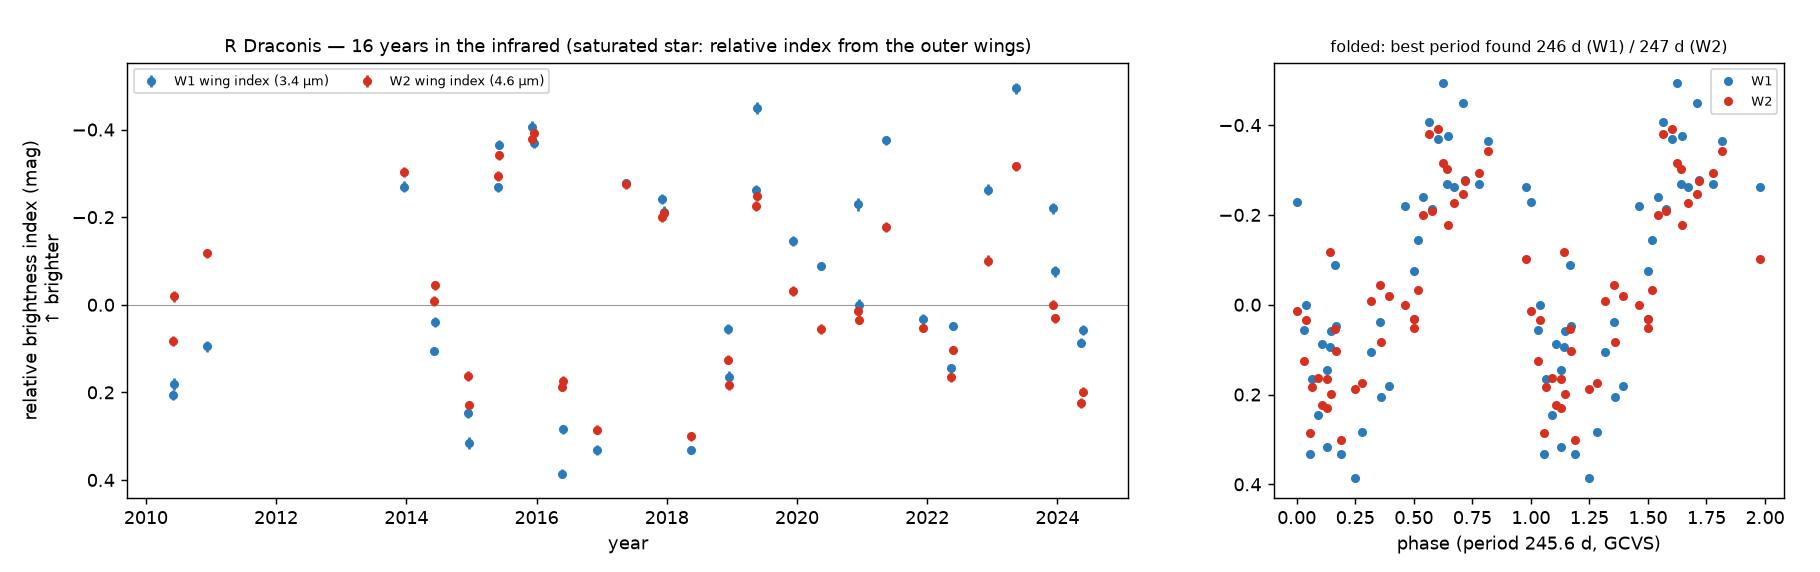
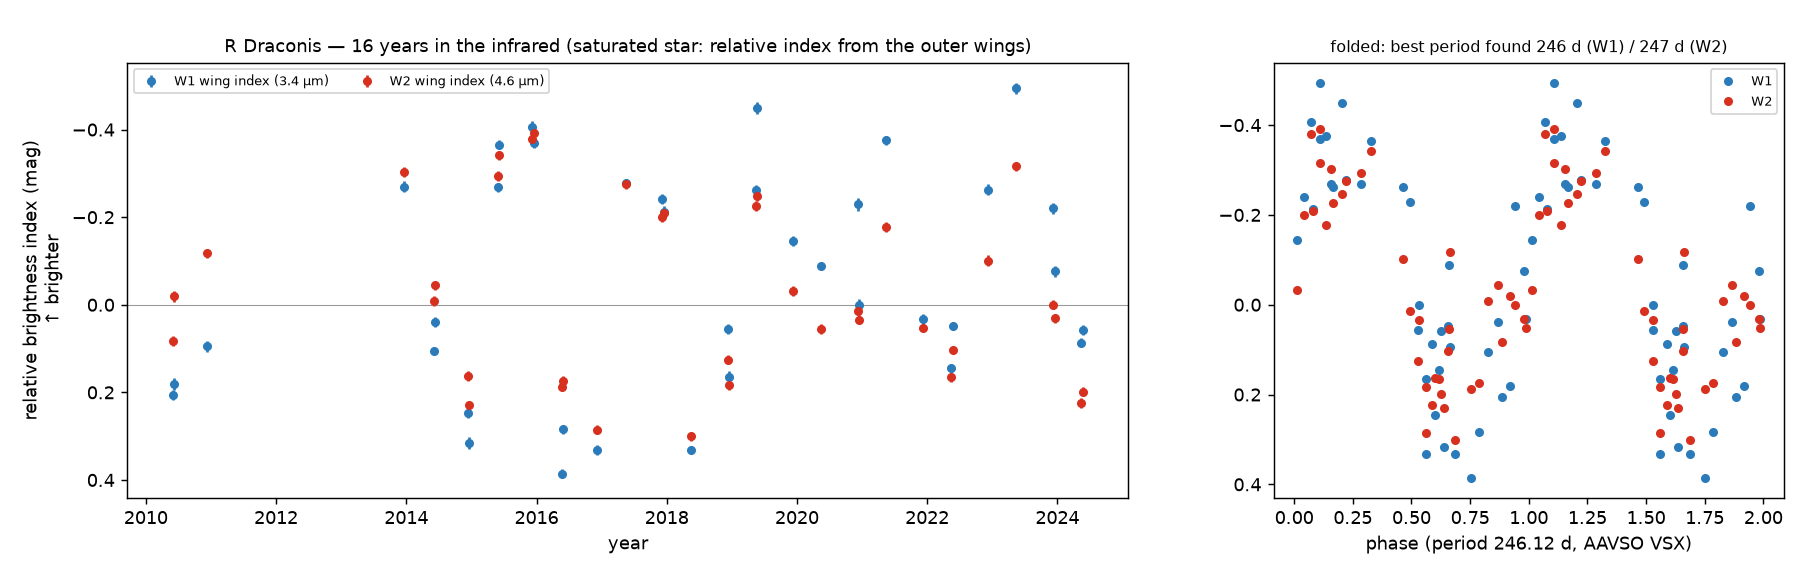
[S8] docs/METHODOLOGY.md (A/B/C -> gap -> SkyLapse + validation, verified refs); fix R Dra reference period (#90)
METHODOLOGY.md: approaches A (Backyard Worlds/WiseView), B (CatWISE2020/unTimely, incl. our
eps Indi B example), C (SPHEREx/IRSA), gap X, SkyLapse D (5 steps + live URL), validation
table with source files, 14 references each opened online (arXiv/DOI/ASCL/VSX).
Correction: the R Dra reference period 245.6 d (labelled GCVS) was not verifiable; AAVSO VSX
gives 246.12 d. Updated photometry.py, light-curve block, LIGHTCURVES.md, QA_FACTS.md and the
R Dra copilot texts (guard re-run). Measured 246 / 247 d unchanged.

diff --git a/science/skylapse_science/photometry.py b/science/skylapse_science/photometry.py
@@ -37,7 +37,7 @@ warnings.simplefilter("ignore", RuntimeWarning)
 VAR_TARGETS = ["r_dra", "rw_aur"]
 RING_WIDTH = 6
 BKG = (25, 35)
-LIT_PERIOD = {"r_dra": (245.6, "GCVS")}     # used only to fold the measured index, never as a result
+LIT_PERIOD = {"r_dra": (246.12, "AAVSO VSX")}     # vsx.aavso.org, checked 15 Nov 2026; only to fold the index, never a result
 
 
 def _epochs(field):

diff --git a/docs/METHODOLOGY.md b/docs/METHODOLOGY.md
@@ -1,0 +1,88 @@
+# SkyLapse — methodology and validation
+
+**Short answer for the jury:** we reviewed how moving infrared objects are found today — **A** human blinking of WISE images
+(Backyard Worlds / WiseView), **B** automated WISE motion catalogs (CatWISE2020, unTimely), **C** NASA SPHEREx and its IRSA archive
+tools. Their common **gap X**: no public tool joins WISE's 14-year time baseline with SPHEREx's 102-band spectra. **D = SkyLapse**
+does that, measures what moves, and shows it as a movie. Working prototype: **https://skylapse.vercel.app**.
+
+## A — Human blinking: Backyard Worlds: Planet 9 and WiseView
+- Volunteers blink unWISE time-resolved images of the same patch of sky and spot faint dots that move [1, 2, 3].
+- **Strength:** the human eye finds faint, unusual movers that catalogs miss; the project's first brown dwarf came this way [1].
+- **Limits:** WISE only (3.4 and 4.6 µm, two colours), no spectra, motion is judged by eye (not measured).
+
+## B — Automated WISE motion catalogs: CatWISE2020 and unTimely
+- CatWISE2020 measures positions and proper motions of faint sources over the whole sky from WISE/NEOWISE data [4]; unTimely is a
+  time-domain catalog built from the time-resolved unWISE coadds [5].
+- **Strength:** whole sky, automatic, faint sources.
+- **Limits:** no spectra, and catalog motions can fail for blended or unusual objects. **Our own example:** for ε Indi B
+  (a brown-dwarf pair next to a very bright star) CatWISE2020 lists (0.90, −0.68) ″/yr, about **1.1 ″/yr**, while Gaia DR3 gives
+  **4.7 ″/yr** (`docs/SCIENCE_NOTES.md` §7). In the five fields we built, CatWISE lists 881 sources faster than 0.3 ″/yr and
+  none of them is confirmed by a Gaia source moving the same way (`science/DISCOVERY.md`).
+
+## C — NASA SPHEREx and the IRSA archive tools
+- SPHEREx maps the whole sky in 102 spectral bands from 0.75 to 5.0 µm [6]; IRSA serves its images and offers cutout,
+  spectrophotometry and source-discovery tools. A spectral library for ultracool dwarfs from SPHEREx already exists [7].
+- **Strength:** a spectrum for every pixel of the sky — e.g. methane in cold brown dwarfs.
+- **Limits:** its own record is only about one year, so even the fastest nearby objects move only ~1–2 of its 6.15″ pixels;
+  saturated bright stars; no time-lapse viewer that joins it with older surveys.
+
+## X — The gap
+**No public tool joins the 14-year WISE/NEOWISE baseline (2010–2024) with SPHEREx's spectra (2025–2026).** Motion needs time,
+spectra need SPHEREx: today a user must combine A, B and C by hand.
+
+## D — SkyLapse (what we built)
+1. **Collect** every unWISE time-resolved WISE/NEOWISE epoch (2010–2024) [3] and every SPHEREx image (DR1 + QR3) of the field.
+2. **Clean:** SPHEREx zodiacal light subtracted, bad pixels masked using each image's own flag names, saturation flagged — never
+   shown as real brightness.
+3. **Combine** everything on one sky grid and play it as a **16-year movie**, with Gaia DR3 [8] / CatWISE overlays.
+4. **Measure:** proper motions (position in every WISE epoch, straight-line fit), a blind search for movers with epoch-by-epoch
+   verification, SPHEREx spectra by forced PSF photometry at the moving position, and saturation-aware light curves.
+5. **Explain:** short English and Azerbaijani texts written only from the measured facts, with an automatic check that every
+   number in a text is one we measured; nothing is called a "discovery", only a "candidate".
+
+Live prototype: **https://skylapse.vercel.app** — all five NASA test targets play from a static bundle (the demo does not depend
+on archive servers being online). Code: this repository (`pipeline/`, `science/`, `web/`).
+
+## Validation (our measured numbers)
+| test | result | reference value | source file |
+|---|---|---|---|
+| Barnard's Star proper motion | 10395 ± 17 mas/yr, **99.8 %** agreement | Gaia DR3 [8]: 10393 mas/yr | `science/VALIDATION.md` |
+| ε Indi B proper motion | 4717 ± 10 mas/yr, **99.0 %**; moves with its star ε Indi A to **99.3 %** | Gaia DR3: 4684 mas/yr | `science/VALIDATION.md` |
+| WISE 0855−0714 proper motion | 8157 ± 15 mas/yr, **99.9 %** | Kirkpatrick et al. 2021 [9]: 8152 mas/yr | `science/VALIDATION.md` |
+| Blind search for movers (5 fields) | known movers **3**, recovered **3**, false candidates **0** | Gaia DR3 + literature | `science/DISCOVERY.md` |
+| WISE 0855 SPHEREx spectrum | not detected below 2.4 µm (−0.009 ± 0.009 mJy); detected at 4.4–4.9 µm (0.62 ± 0.08 mJy, S/N 7) | expected for a ~250 K Y dwarf [10] | `science/SPECTRA.md` |
+| SPHEREx flux scale | SPHEREx / WISE = 1.01 ± 0.03 (3.4 µm), 1.03 ± 0.03 (4.6 µm), 9 stars | WISE photometry (CatWISE2020 [4]) | `science/out/validation/spectra_calibration.json` |
+| R Draconis pulsation | best period **246 d** (W1) / **247 d** (W2) | AAVSO VSX: 246.12 d [11] | `science/LIGHTCURVES.md` |
+| RW Aurigae variability | 0.24 / 0.40 mag rms vs a constant comparison star 0.03 / 0.05; index vs NEOWISE photometry r = 0.93 / 0.98 | NEOWISE single exposures [12] | `science/LIGHTCURVES.md` |
+
+Agreement = 100 × (1 − |μ_measured − μ_reference| / |μ_reference|), full 2-D vector difference. Per-claim method and caveat:
+`science/QA_FACTS.md`. **Caveats:** Barnard's Star, R Dra and RW Aur are saturated (positions from the image wings; light curves
+are a relative index, not magnitudes); the R Dra period has a ~713 d alias because WISE visits every ~6 months; WISE parallaxes
+are not a result. Every number is reproduced by one command (`python -m skylapse_science validate | spectra | lightcurves | discover`).
+
+## References (each link checked on 15 Nov 2026)
+1. Kuchner, M. J., Faherty, J. K., Schneider, A. C., et al. 2017, *The First Brown Dwarf Discovered by the Backyard Worlds: Planet 9
+   Citizen Science Project*, ApJ Letters. arXiv:[1705.02919](https://arxiv.org/abs/1705.02919), doi:[10.3847/2041-8213/aa7200](https://doi.org/10.3847/2041-8213/aa7200)
+2. Caselden, D., Westin, P., III, Meisner, A., Kuchner, M., Colin, G. 2018, *WiseView: Visualizing motion and variability of faint
+   WISE sources*, Astrophysics Source Code Library, [ascl:1806.004](https://ascl.net/1806.004)
+3. Meisner, A. M., Lang, D., Schlegel, D. J. 2018, *Time-resolved WISE/NEOWISE Coadds*, AJ 156, 69.
+   arXiv:[1710.02526](https://arxiv.org/abs/1710.02526), doi:[10.3847/1538-3881/aacbcd](https://doi.org/10.3847/1538-3881/aacbcd)
+4. Marocco, F., et al. 2021, *The CatWISE2020 Catalog*, ApJS.
+   arXiv:[2012.13084](https://arxiv.org/abs/2012.13084), doi:[10.3847/1538-4365/abd805](https://doi.org/10.3847/1538-4365/abd805)
+5. Meisner, A. M., et al. 2023, *unTimely: a Full-sky, Time-Domain unWISE Catalog*, AJ.
+   arXiv:[2209.14327](https://arxiv.org/abs/2209.14327), doi:[10.3847/1538-3881/aca2ab](https://doi.org/10.3847/1538-3881/aca2ab)
+6. Doré, O., et al. 2014, *Cosmology with the SPHEREX All-Sky Spectral Survey*, arXiv:[1412.4872](https://arxiv.org/abs/1412.4872)
+7. Gagné, J., et al. 2026, *A SPHEREx Pipeline and Spectral Library for Ultracool Dwarfs*, arXiv:[2604.22012](https://arxiv.org/abs/2604.22012)
+8. Gaia Collaboration, Vallenari, A., et al. 2023, *Gaia Data Release 3: Summary of the content and survey properties*, A&A.
+   arXiv:[2208.00211](https://arxiv.org/abs/2208.00211), doi:[10.1051/0004-6361/202243940](https://doi.org/10.1051/0004-6361/202243940)
+9. Kirkpatrick, J. D., et al. 2021, *The Field Substellar Mass Function Based on the Full-sky 20-pc Census of 525 L, T, and Y Dwarfs*,
+   ApJS 253, 7. arXiv:[2011.11616](https://arxiv.org/abs/2011.11616), doi:[10.3847/1538-4365/abd107](https://doi.org/10.3847/1538-4365/abd107)
+10. Luhman, K. L. 2014, *Discovery of a ~250 K Brown Dwarf at 2 pc from the Sun*, ApJ 786, L18.
+    arXiv:[1404.6501](https://arxiv.org/abs/1404.6501), doi:[10.1088/2041-8205/786/2/L18](https://doi.org/10.1088/2041-8205/786/2/L18)
+11. AAVSO International Variable Star Index (VSX), entry for R Dra (period 246.12 d): [vsx.aavso.org](https://vsx.aavso.org/index.php?view=results.get&ident=R+Dra)
+12. Mainzer, A., et al. 2014, *Initial Performance of the NEOWISE Reactivation Mission*, ApJ 792, 30.
+    arXiv:[1406.6025](https://arxiv.org/abs/1406.6025), doi:[10.1088/0004-637X/792/1/30](https://doi.org/10.1088/0004-637X/792/1/30)
+13. Wright, E. L., et al. 2010, *The Wide-field Infrared Survey Explorer (WISE): Mission Description and Initial On-orbit
+    Performance*, AJ 140, 1868. arXiv:[1008.0031](https://arxiv.org/abs/1008.0031), doi:[10.1088/0004-6256/140/6/1868](https://doi.org/10.1088/0004-6256/140/6/1868)
+14. Astropy Collaboration 2022, *The Astropy Project: … Latest Major Release (v5.0) of the Core Package*, ApJ.
+    arXiv:[2206.14220](https://arxiv.org/abs/2206.14220), doi:[10.3847/1538-4357/ac7c74](https://doi.org/10.3847/1538-4357/ac7c74)

diff --git a/science/QA_FACTS.md b/science/QA_FACTS.md
@@ -17,7 +17,7 @@ Checked against the live site https://skylapse.vercel.app (bundle files identica
 | 9 | WISE 0855 spectrum | not detected < 2.4 µm (−0.009 ± 0.009 mJy) and in the CH₄ band; detected 4.4–4.9 µm (0.62 ± 0.08 mJy, S/N 7) | `science/SPECTRA.md`, `out/wise0855/objects/target.json` | Forced PSF fit of target + catalogue neighbours on SPHEREx IMAGE − ZODI, position propagated to each image date. | Only the 30 May-2025 images are clean; later it passes < 9″ from a background star (blend, left out) — a simple aperture would fake a short-wave "detection". |
 | 10 | ε Indi B spectrum is a T dwarf | methane band at **19 %** of the 3.9–4.2 µm peak; dip again at 4.4–4.9 µm (CO) | `science/SPECTRA.md` | Same, 324 clean images. | Peak of a T dwarf is ~4 µm, not 4.6 µm: don't say "brightest at 4.6 µm" for ε Indi B. |
 | 11 | Our SPHEREx flux scale is right | SPHEREx / WISE = **1.01 ± 0.03** (3.4 µm) and **1.03 ± 0.03** (4.6 µm), 9 stars | `out/validation/spectra_calibration.json` | Isolated CatWISE stars measured the same way. | Quick-look wavelengths from the spectral WCS (IRSA method), fine for display. |
-| 12 | R Dra pulsation recovered | best period **246 d** (W1) / **247 d** (W2) vs **245.6 d** (GCVS); folded sine explains 75 % | `science/LIGHTCURVES.md`, `out/r_dra/lightcurve_analysis.json` | Relative brightness index from the unsaturated outer rings of the star in 37 unWISE epochs, period search 100–1000 d. | WISE visits every ~6 months, so a ~713 d alias fits almost as well: consistent with the known period, could not single it out alone. |
+| 12 | R Dra pulsation recovered | best period **246 d** (W1) / **247 d** (W2) vs **246.12 d** (AAVSO VSX); folded sine explains 76 % | `science/LIGHTCURVES.md`, `out/r_dra/lightcurve_analysis.json` | Relative brightness index from the unsaturated outer rings of the star in 37 unWISE epochs, period search 100–1000 d. | WISE visits every ~6 months, so a ~713 d alias fits almost as well: consistent with the known period, could not single it out alone. |
 | 13 | RW Aur variability is real | RW Aur 0.24 / 0.40 mag rms vs comparison star 0.03 / 0.05; index vs NEOWISE correlation **0.93 / 0.98** (23 visits) | `science/LIGHTCURVES.md` | Same wing index; checked against NEOWISE profile-fit photometry. | It is a relative index, not a magnitude (core saturated). |
 | 14 | Saturation is flagged honestly | Barnard saturated in 356/357 SPHEREx images, R Dra 2471/2471, RW Aur 304/333 → no spectrum shown | `out/<field>/objects/target.json` (`spectrum.usable: false`) | OVERFLOW flag or empty core at the target. | — |
 | 15 | AI explanations use only our facts | 10 texts (5 × EN/AZ), every number checked automatically against `copilot_facts.json` | `science/copilot_offline_texts.json`, `copilot.py` | Number guard + forbidden words ("discovery", "Planet X") + ≤ 110 words; reviewed by eye. | Written in a Claude Code session (no API key at the venue, decision D-018); labelled AI-generated. |

diff --git a/science/LIGHTCURVES.md b/science/LIGHTCURVES.md
@@ -20,9 +20,9 @@ R Draconis and RW Aurigae are far too bright: their cores are saturated in every
   rms for RW Aur.
 - **RW Aur vs NEOWISE profile-fit photometry** (per-visit medians; the profile fit uses the unsaturated wings of moderately saturated
   stars): correlation 0.93 (W1) and 0.98 (W2) over 23 visits.
-- **R Dra period:** a period search (100–1000 d) on the index finds 246 d (W1) and 247 d (W2); the GCVS period is 245.6 d.
+- **R Dra period:** a period search (100–1000 d) on the index finds 246 d (W1) and 247 d (W2); the AAVSO VSX period is 246.12 d.
   WISE visits the star about every 6 months, so an alias near 710 d fits almost as well: the data are consistent with the known
-  period but could not single it out alone. Folded on 245.6 d, one sine wave explains 75 % of the W1 index variation.
+  period but could not single it out alone. Folded on 246.12 d, one sine wave explains 76 % of the W1 index variation.
 - R Dra's NEOWISE profile-fit magnitudes (W1 ≈ 0, W2 ≈ −1) scatter by up to ~2 mag within single visits: beyond the saturation
   correction, not used.
 

diff --git a/ops/memory/sessions/science.md b/ops/memory/sessions/science.md
@@ -1,9 +1,10 @@
 # Journal — role: science  (only this role writes this file; keep < ~120 lines; replace stale lines)
-Last update: Sun 15 Nov ~00:50 Baku
+Last update: Sun 15 Nov ~01:30 Baku
 
 ## Current task
-#89 S7 regenerate copilot via organizers' gateway → code ready (load_env, custom_gateway, thinking disabled), BLOCKED: .env
-missing. #77 S6 submitted (PR #81). #11 S5 merged (PR #74). 2nd computer (ARES-DESKTOP): use `py` for skyops.
+#90 S8 docs/METHODOLOGY.md → done (14 refs checked online; 2 wrong arXiv IDs from memory fixed). CORRECTION: R Dra reference period
+245.6 d (GCVS, from memory) was unverified → AAVSO VSX 246.12 d; propagated to science/ files + R Dra copilot texts; pitch/ files
+still say 245.6 (asked pitch). #89 S7 BLOCKED (.env missing; code ready). #77 S6 submitted (PR #81).
 
 ## Status
 - S4: recall 3/3 known movers (Barnard 10405, eps Indi B 4713, WISE 0855 8155 mas/yr), 0 false candidates in 5 fields.

diff --git a/ops/memory/KNOWHOW.md b/ops/memory/KNOWHOW.md
@@ -27,3 +27,4 @@
 [orchestrator] After API redeploy with pipeline fix #67: live wise_ready in 88 s (23 W2 frames) at 8.8′ (was ~6 min). Pre-warmed demo coordinate: 150.5 2.5.
 [orchestrator] Organizers' Claude API (tunnel) = Anthropic Messages API (+ OpenAI-compatible /v1/chat/completions). claude-opus-5-5 there emits a long `thinking` block: send `"thinking": {"type": "disabled"}` and max_tokens ≥ 4000, else the answer is empty (stop_reason max_tokens). Base URL + key ONLY in env (ANTHROPIC_BASE_URL, ANTHROPIC_API_KEY): the tunnel URL changes on restart.
 [orchestrator] Sun 00:00: API v0.3.0 (pipeline #87 WISE-only, no TAP): live wise_ready 11 s, done 20 s.
+[science] Never cite literature values from memory: R Dra period '245.6 d (GCVS)' was unverified; AAVSO VSX gives 246.12 d (CDS/VizieR often down — use vsx.aavso.org).
